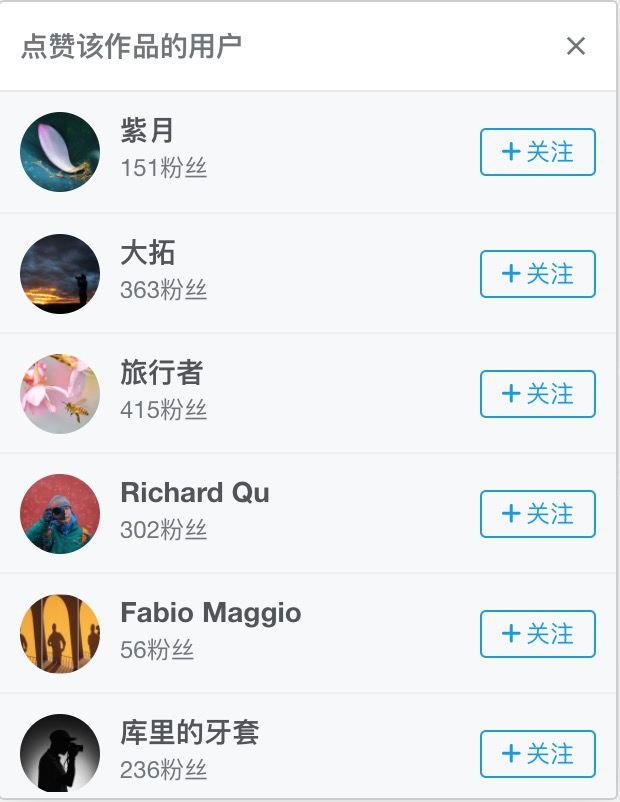
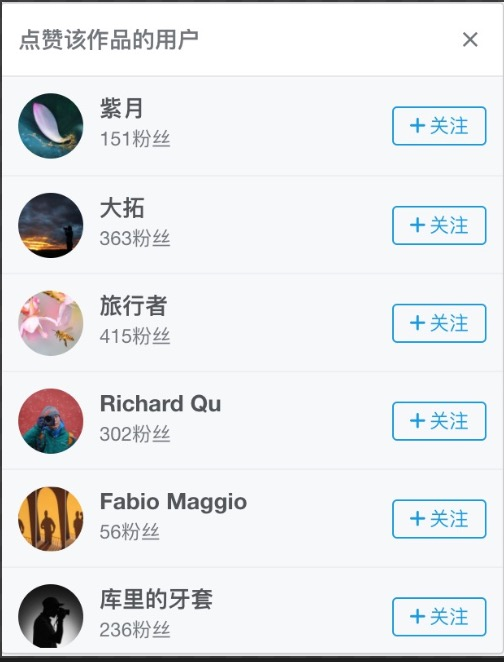
费用计算

Changed region(s): [[0.0, 0.0, 1.0, 1.0]]

diff --git a/dynamodb/Dynamodb实现点赞系统.md b/dynamodb/Dynamodb实现点赞系统.md
@@ -47,7 +47,7 @@
 |userId|HashKey 分区键|
 |rank|RangeKey 排序键|
 
-![image](./images/Dynamodb实现点赞系统/2.jpg)
+![image](./images/Dynamodb实现点赞系统/2.jpg=300x200)
 
 
 
